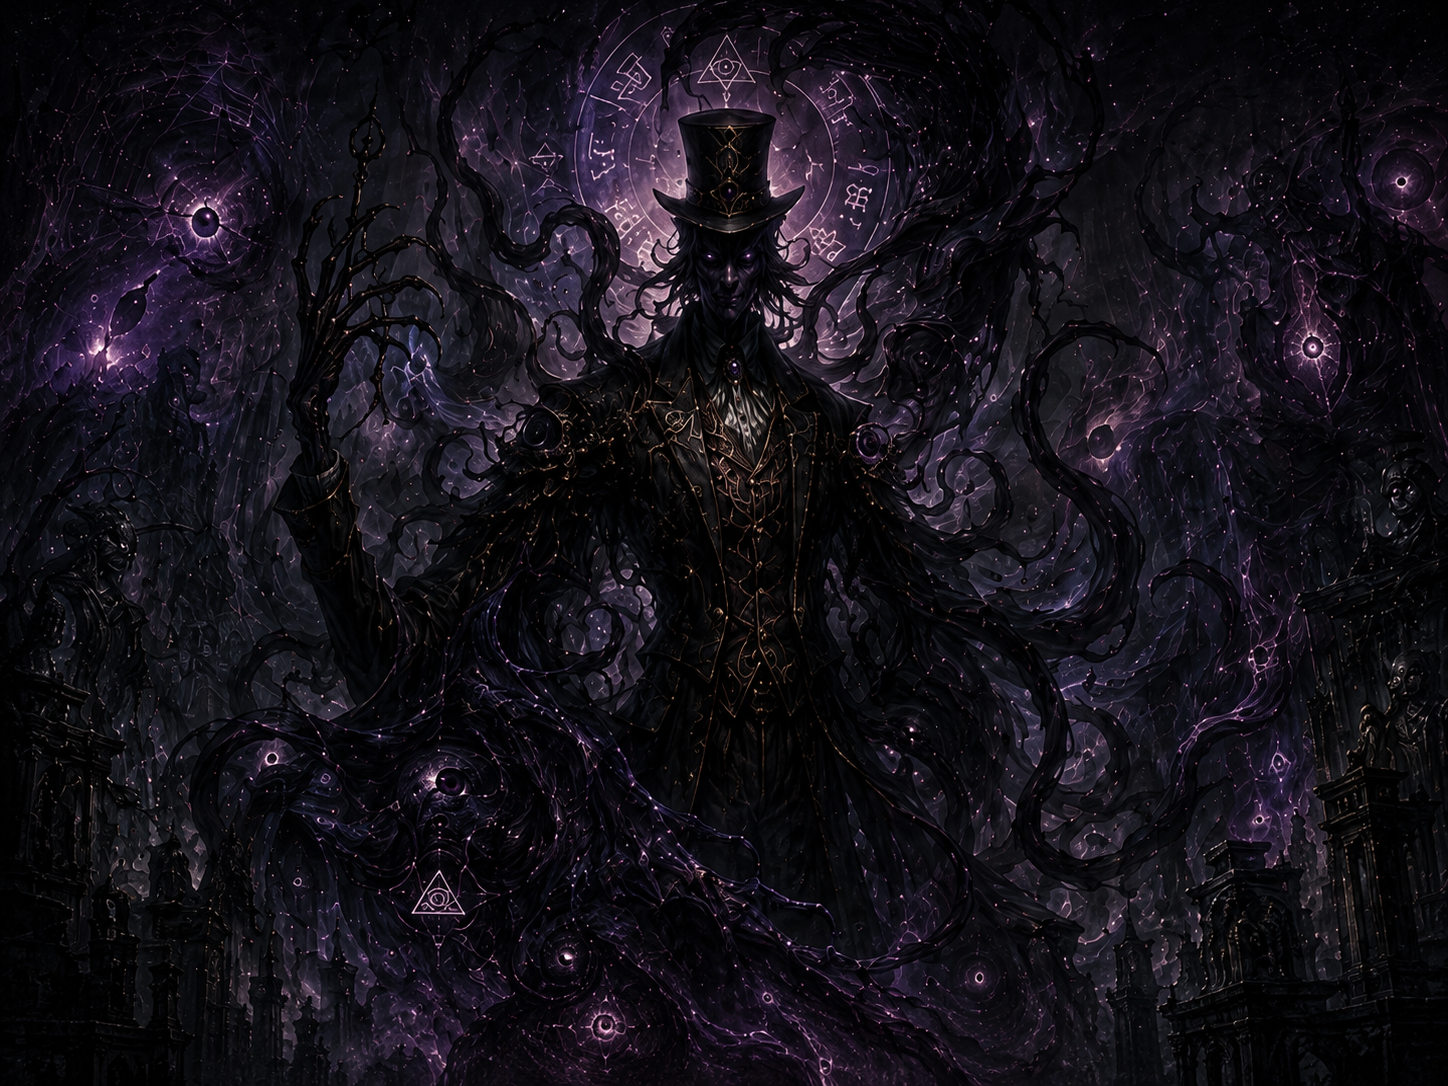
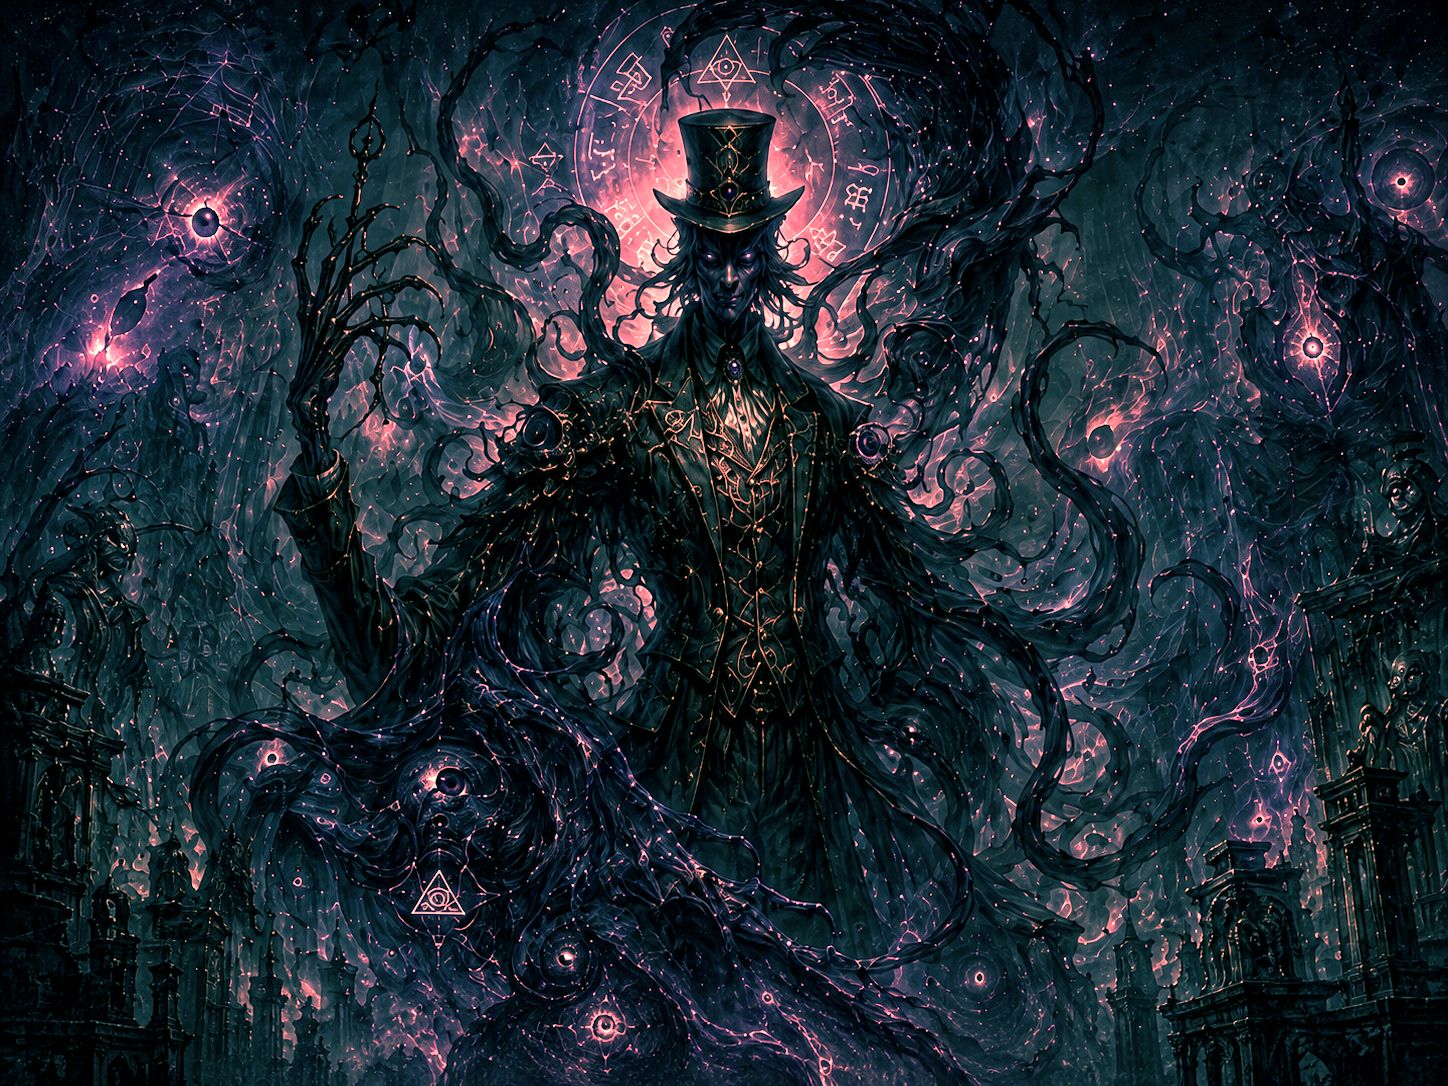
new card and deploy position

diff --git a/src/App.jsx b/src/App.jsx
@@ -1,8 +1,7 @@
 import { GodTooltip, AreaTooltip, GodDDCard, DDCard, DDCardBack, GodCardDisplay } from './components/cards';
+import React, { lazy, Suspense, useState, useEffect, useLayoutEffect, useRef, useCallback, useMemo } from "react";
 import { useCardHoverTooltip } from './components/cards/useCardHoverTooltip';
 import { GodChoiceModal, NyaBorrowModal, DrawRevealModal, TreasureDodgeModal, PeekHandModal, TortoiseOracleModal, FullLogModal } from './components/modals';
-const AboutModal = lazy(() => import('./components/modals').then(m => ({ default: m.AboutModal })));
-const RoadmapModal = lazy(() => import('./components/modals').then(m => ({ default: m.RoadmapModal })));
 import { DecipherStoneCarvingOverlay } from './components/modals/DecipherStoneCarvingOverlay';
 import { HoundsTimerBadge, StatBar, DiscardPile, HealCrossEffect, DeckPile, InspectionPile, PileDisplay, PlayerPanel } from './components/board';
 import { RoomModal, LobbyModal, PrivacyToggleModal, TutorialOverlay, ConnectionErrorModal, DebugControls } from './components/lobby';
@@ -12,36 +11,9 @@ import InGameTutorialOverlay from './components/tutorial/InGameTutorialOverlay';
 import SoftGuideOverlay from './components/tutorial/SoftGuideOverlay';
 import { StartScreen } from './components/start/StartScreen';
 import { ThemeCornerOrnament, ThemeEdgeRelief } from './components/theme/ThemeOrnaments';
-import React, { lazy, Suspense, useState, useEffect, useLayoutEffect, useRef, useCallback, useMemo } from "react";
 import { createPortal } from "react-dom";
 import { buildPublicUrl } from './utils/url';
 // socket.io-client is loaded at runtime via CDN (only outside Claude Artifacts)
-
-function LocalGodPowerTag({ def, godLevel, children }) {
-  const { hover, tooltipPosition, cardRef, handleMouseEnter, handleMouseMove, handleMouseLeave } = useCardHoverTooltip();
-  if (!def) return null;
-  return (
-    <>
-      <div
-        ref={cardRef}
-        onMouseEnter={handleMouseEnter}
-        onMouseMove={handleMouseMove}
-        onMouseLeave={handleMouseLeave}
-        style={{
-          marginTop: 4,
-          padding: '3px 6px',
-          background: def.bgCol || '#100808',
-          border: `1px solid ${def.col || '#c06020'}88`,
-          borderRadius: 3,
-          cursor: 'default',
-        }}
-      >
-        {children}
-      </div>
-      {hover && <GodTooltip def={def} godLevel={godLevel || 1} position={tooltipPosition} />}
-    </>
-  );
-}
 
 import {
   FIXED_ZONE_CARD_VARIANTS_BY_KEY,
@@ -307,6 +279,35 @@ import {
   shouldTriggerRestSoftGuide,
 } from './game/softGuides';
 
+const AboutModal = lazy(() => import('./components/modals').then(m => ({ default: m.AboutModal })));
+const RoadmapModal = lazy(() => import('./components/modals').then(m => ({ default: m.RoadmapModal })));
+
+function LocalGodPowerTag({ def, godLevel, children }) {
+  const { hover, tooltipPosition, cardRef, handleMouseEnter, handleMouseMove, handleMouseLeave } = useCardHoverTooltip();
+  if (!def) return null;
+  return (
+    <>
+      <div
+        ref={cardRef}
+        onMouseEnter={handleMouseEnter}
+        onMouseMove={handleMouseMove}
+        onMouseLeave={handleMouseLeave}
+        style={{
+          marginTop: 4,
+          padding: '3px 6px',
+          background: def.bgCol || '#100808',
+          border: `1px solid ${def.col || '#c06020'}88`,
+          borderRadius: 3,
+          cursor: 'default',
+        }}
+      >
+        {children}
+      </div>
+      {hover && <GodTooltip def={def} godLevel={godLevel || 1} position={tooltipPosition} />}
+    </>
+  );
+}
+
 // ══════════════════════════════════════════════════════════════
 //  UTILITIES
 // ══════════════════════════════════════════════════════════════
@@ -335,6 +336,9 @@ const getRuntimeServerUrl=()=>{
   if(typeof __TOE_RUNTIME_TARGET__!=='undefined'&&__TOE_RUNTIME_TARGET__==='h5'){
     return typeof __TOE_H5_SERVER_URL__!=='undefined'?__TOE_H5_SERVER_URL__:'https://toegame.online';
   }
+  if(typeof __TOE_RUNTIME_TARGET__!=='undefined'&&__TOE_RUNTIME_TARGET__==='web'){
+    if(typeof __TOE_WEB_SERVER_URL__!=='undefined'&&__TOE_WEB_SERVER_URL__)return __TOE_WEB_SERVER_URL__;
+  }
   const origin=window.location?.origin;
   if(!origin||origin==='null')return 'http://127.0.0.1:3002';
   return origin;
@@ -347,6 +351,9 @@ const getRuntimeSocketPath=()=>{
   }
   if(typeof __TOE_RUNTIME_TARGET__!=='undefined'&&__TOE_RUNTIME_TARGET__==='h5'){
     return typeof __TOE_H5_SOCKET_PATH__!=='undefined'?__TOE_H5_SOCKET_PATH__:'/socket.io';
+  }
+  if(typeof __TOE_RUNTIME_TARGET__!=='undefined'&&__TOE_RUNTIME_TARGET__==='web'){
+    return typeof __TOE_WEB_SOCKET_PATH__!=='undefined'?__TOE_WEB_SOCKET_PATH__:'/socket.io';
   }
   if(window.location?.origin==='null')return '/socket.io';
   return '/socket.io';

diff --git a/src/constants/card.js b/src/constants/card.js
@@ -796,8 +796,8 @@ const GOD_DEFS={
       {nightThreshold:6,desc:'立即让场地进入黑夜：所有角色选中目标时掷骰子，若小于等于6则改为错误目标并失去1SAN。选中目标累计12次后黑夜结束'},
     ],
   },
-  GEE:{
-    godKey:'GEE',name:'戈耳工',subtitle:'石化之视',power:'美杜莎之瞳',
+  GOR:{
+    godKey:'GOR',name:'戈耳工',subtitle:'石化之视',power:'美杜莎之瞳',
     col:'#608020',bgCol:'#0a1008',
     levels:[
       {desc:'效果待设计'},
@@ -814,8 +814,8 @@ const GOD_DEFS={
       {desc:'效果待设计'},
     ],
   },
-  BAQ:{
-    godKey:'BAQ',name:'八岐大蛇',subtitle:'祸津日神',power:'八山八海',
+  ORO:{
+    godKey:'ORO',name:'八岐大蛇',subtitle:'祸津日神',power:'八山八海',
     col:'#a06020',bgCol:'#181008',
     levels:[
       {desc:'效果待设计'},
@@ -850,8 +850,8 @@ const GOD_DEFS={
       {desc:'效果待设计'},
     ],
   },
-  FAN:{
-    godKey:'FAN',name:'堕落的范·海辛',subtitle:'吸血鬼猎手',power:'血之诅咒',
+  VAN:{
+    godKey:'VAN',name:'堕落的范·海辛',subtitle:'吸血鬼猎手',power:'血之诅咒',
     col:'#801020',bgCol:'#180808',
     levels:[
       {desc:'效果待设计'},
@@ -901,7 +901,7 @@ const EXPANSIONS = {
   '先贤的馈赠': {
     name: '先贤的馈赠',
     description: '古老文明遗留的神秘礼物',
-    godCardKeys: ['GEE', 'XUA', 'BAQ'],
+    godCardKeys: ['GOR', 'XUA', 'ORO'],
     godCopies: 4,
   },
   '群星呼唤': {
@@ -913,7 +913,7 @@ const EXPANSIONS = {
   '析骨为柴': {
     name: '析骨为柴',
     description: '以骨为柴，以血为火',
-    godCardKeys: ['TRA', 'FAN', 'DIX'],
+    godCardKeys: ['TRA', 'VAN', 'DIX'],
     godCopies: 4,
   },
 };
@@ -1025,11 +1025,11 @@ function getGodShortKey(godKey) {
 const GOD_NO_SUBTITLE_KEYS = new Set([
   'ZHU',
   'APO',
-  'GEE',
+  'GOR',
   'XUA',
-  'BAQ',
+  'ORO',
   'TRA',
-  'FAN',
+  'VAN',
   'VRI',
   'DIX',
 ]);

diff --git a/vite.config.js b/vite.config.js
@@ -17,6 +17,8 @@ export default defineConfig(({ command, mode }) => {
   const runtimeTarget = command === 'serve' ? 'dev' : isH5 ? 'h5' : 'web';
   const h5ServerUrl = process.env.VITE_H5_SERVER_URL || 'https://toegame.online';
   const h5SocketPath = process.env.VITE_H5_SOCKET_PATH || '/socket.io';
+  const webServerUrl = process.env.VITE_WEB_SERVER_URL || '';
+  const webSocketPath = process.env.VITE_WEB_SOCKET_PATH || '/socket.io';
   const devServerUrl = process.env.VITE_DEV_SERVER_URL || 'http://127.0.0.1:3002';
   const devSocketPath = process.env.VITE_DEV_SOCKET_PATH || '/socket.io';
   return {
@@ -28,6 +30,8 @@ export default defineConfig(({ command, mode }) => {
       __TOE_RUNTIME_TARGET__: JSON.stringify(runtimeTarget),
       __TOE_H5_SERVER_URL__: JSON.stringify(h5ServerUrl),
       __TOE_H5_SOCKET_PATH__: JSON.stringify(h5SocketPath),
+      __TOE_WEB_SERVER_URL__: JSON.stringify(webServerUrl),
+      __TOE_WEB_SOCKET_PATH__: JSON.stringify(webSocketPath),
       __TOE_DEV_SERVER_URL__: JSON.stringify(devServerUrl),
       __TOE_DEV_SOCKET_PATH__: JSON.stringify(devSocketPath),
     },

diff --git a/src/components/cards/CardFaceAssets.js b/src/components/cards/CardFaceAssets.js
@@ -17,12 +17,31 @@ const CARD_FACE_META_BY_ID = {
       flavor: '“看什么看，没见过发光的人吗？”',
     },
   },
-  god: {
-    NYA: {
-      illustration: '/img/card/illustration/nya.png',
-      flavor: '“我的美少女外观？已经在做了，我骗过你吗？”',
-    },
-  },
+  god: Object.fromEntries(
+    [
+      'APO',
+      'CTH',
+      'DIX',
+      'GOR',
+      'HAS',
+      'KTH',
+      'NYA',
+      'ORO',
+      'SHU',
+      'TRA',
+      'TSG',
+      'VAN',
+      'VRI',
+      'XUA',
+      'ZHU',
+    ].map(godKey => [
+      godKey,
+      {
+        illustration: `/img/card/illustration/${godKey.toLowerCase()}.png`,
+        flavor: godKey === 'NYA' ? '“我的美少女外观？已经在做了，我骗过你吗？”' : '',
+      },
+    ])
+  ),
 };
 
 export const CARD_FACE_ILLUSTRATION_FILES = [

diff --git a/src/components/cards/CardFaceImage.jsx b/src/components/cards/CardFaceImage.jsx
@@ -58,7 +58,9 @@ function getEffectText(card, godLevel) {
   if (!card) return '';
   if (card.isGod) {
     const def = getGodCardDef(card);
-    return def?.levels?.[clampLevel(godLevel) - 1]?.desc || card.desc || card.power || '';
+    const desc = def?.levels?.[clampLevel(godLevel) - 1]?.desc || card.desc || '';
+    if (/待设计/.test(desc)) return '';
+    return desc;
   }
   if (card.type === 'blankZone') return card.desc || '任意字母与数字';
   return card.desc || '';
